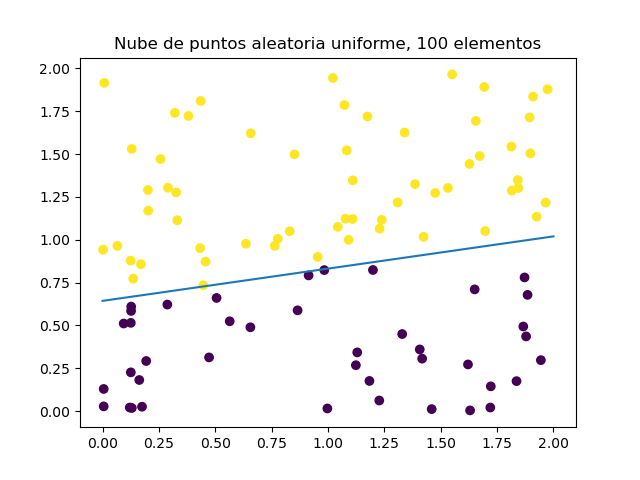
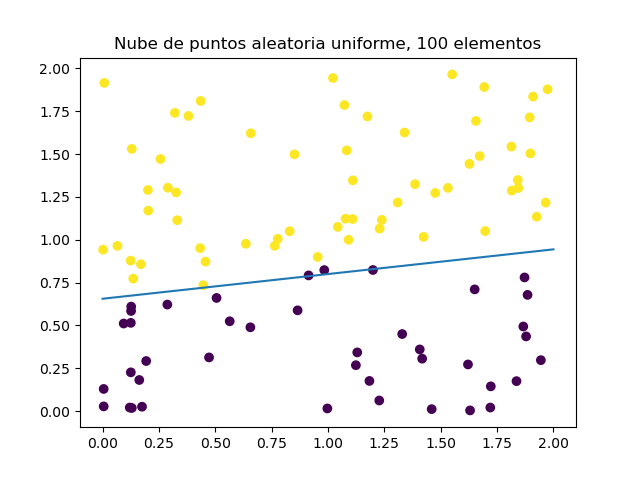
add results

Changed region(s): [[0.3438, 0.4688, 0.875, 0.5938], [0.1562, 0.5938, 0.25, 0.625], [0.2812, 0.5938, 0.3438, 0.625]]

diff --git a/P2/practica 2.py b/P2/practica 2.py
@@ -504,7 +504,7 @@ ax2b1 = fig2b1.add_subplot()
 ax2b1.scatter(x_complet[:,1],x_complet[:,2],c=tag_test)
 #calculate the perfect parting line
 X = np.linspace(0, 2, tag_test.size)
-Y = (a*X) + b
+Y = (-w[0]-w[1]*X)/w[2]
 ax2b1.plot(X, Y)
 ax2b1.set_title('Nube de puntos aleatoria uniforme, 100 elementos')
 
@@ -553,7 +553,7 @@ ax2b2 = fig2b2.add_subplot()
 ax2b2.scatter(x_complet2[:,1],x_complet2[:,2],c=tag_test)
 #calculate the perfect parting line
 X = np.linspace(0, 2, tag_test.size)
-Y = (a*X) + b
+Y = (-w[0]-w[1]*X)/w[2]
 ax2b2.plot(X, Y)
 ax2b2.set_title('Nube de puntos aleatoria uniforme, 1000 elementos')
 
